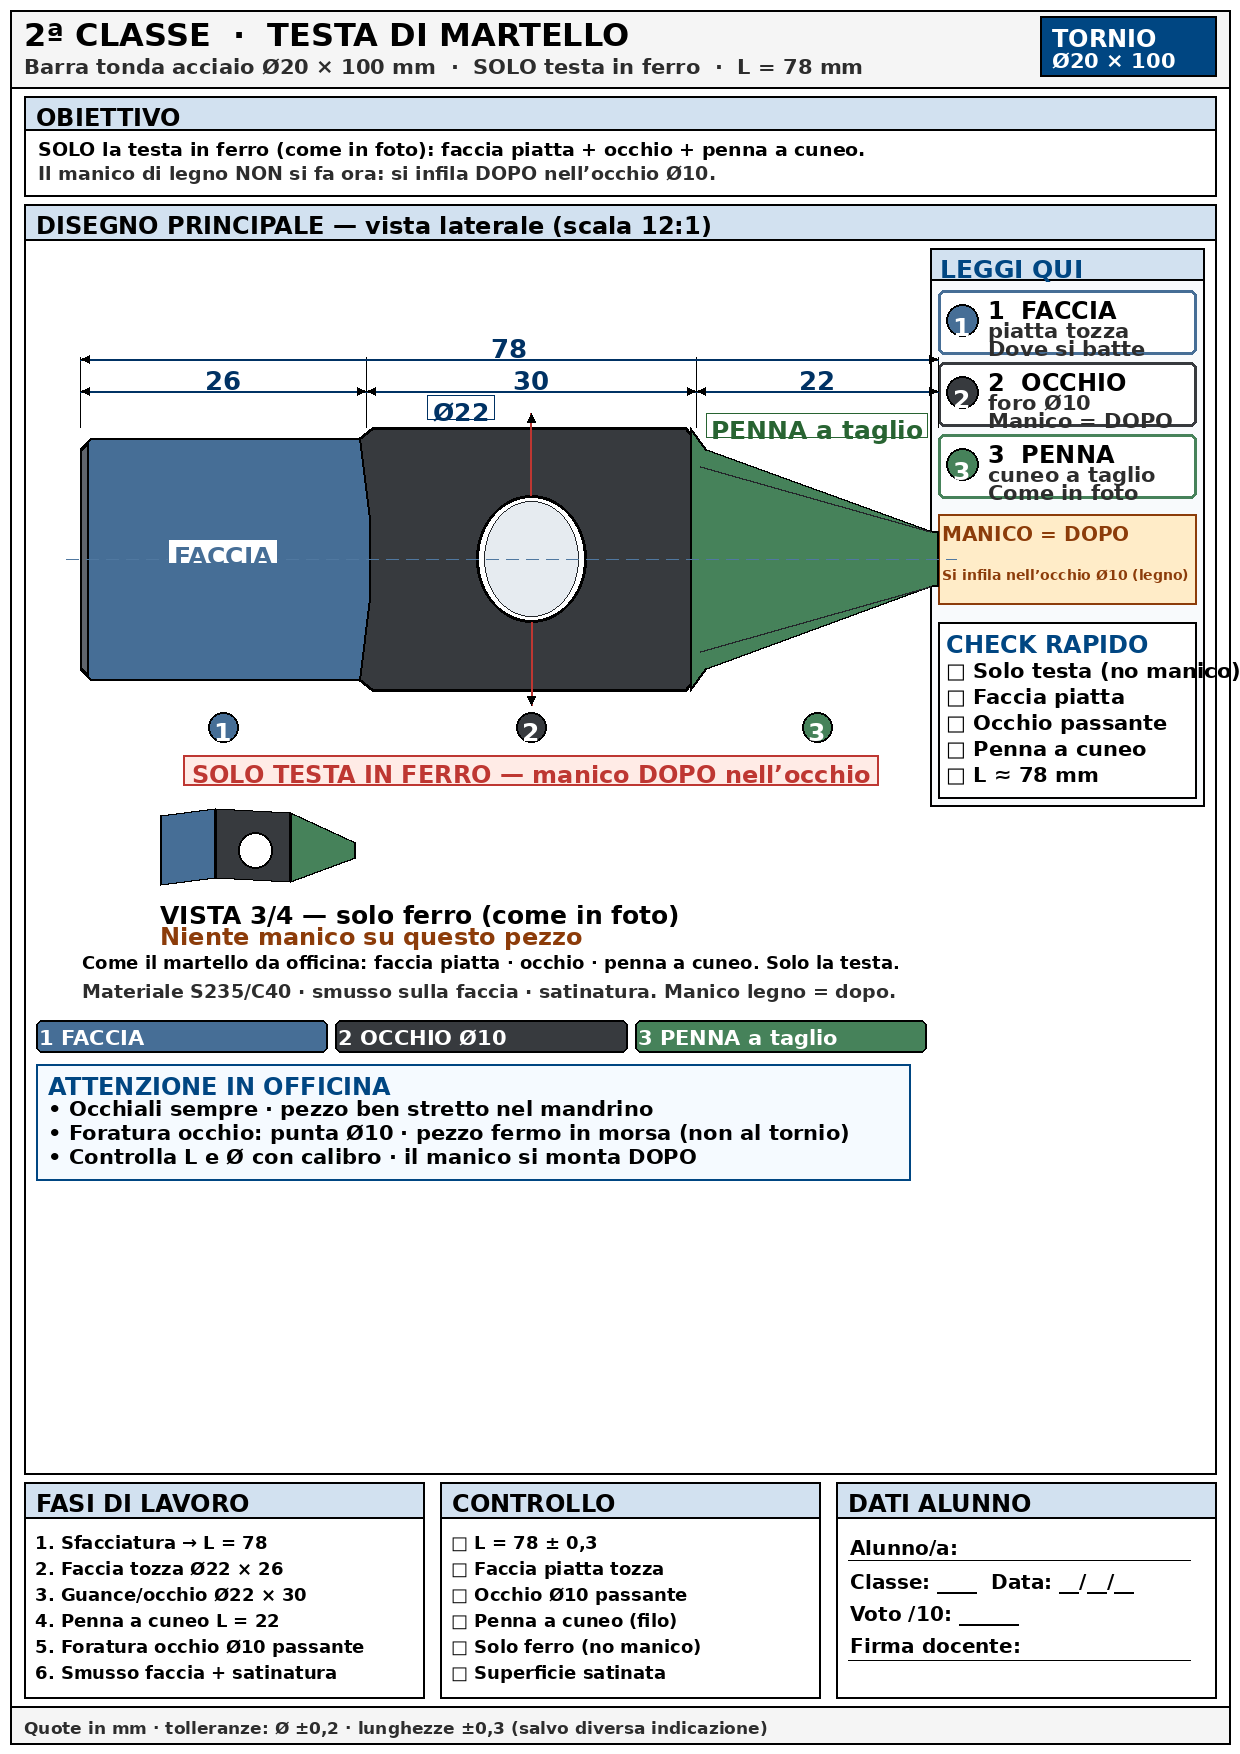
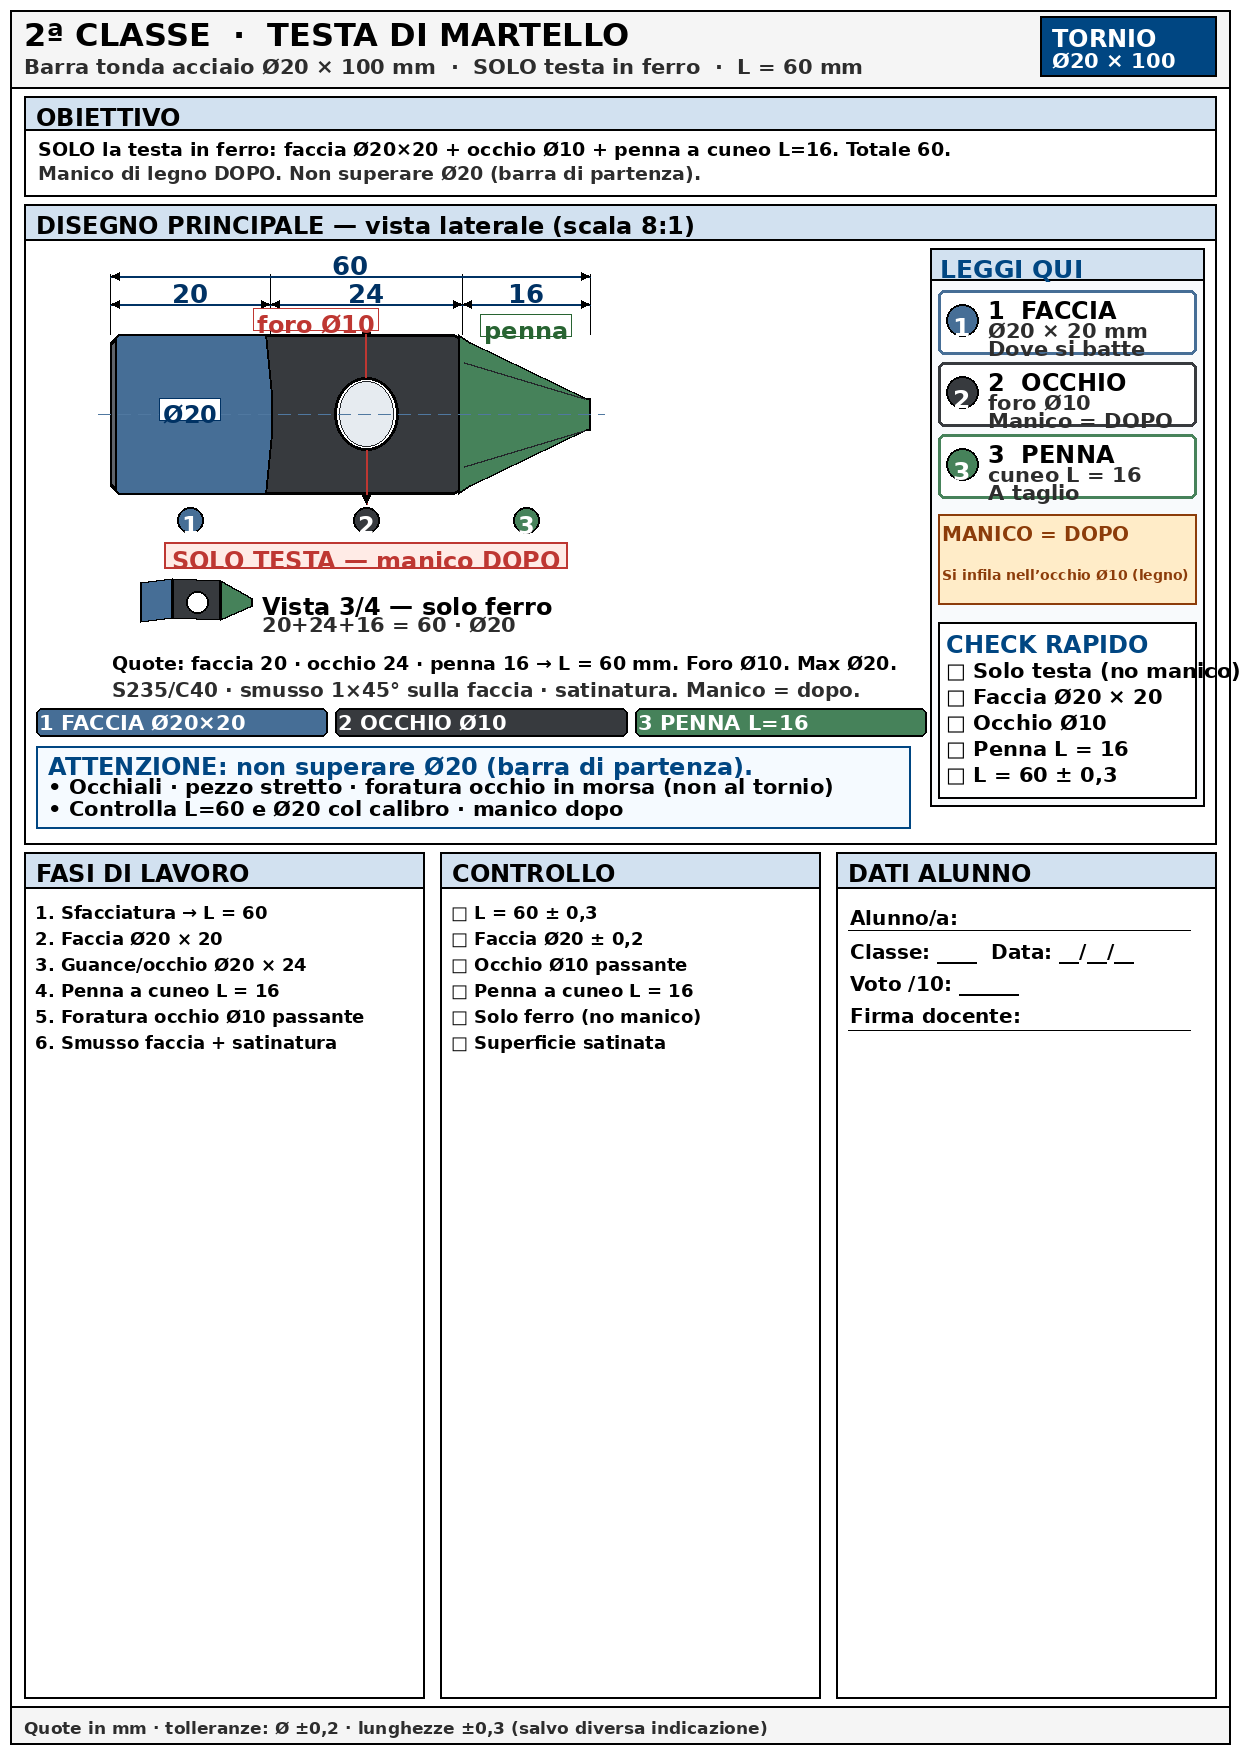
Quote giuste L=60 Ø20; disegno più piccolo (scala 8:1).
Faccia 20 + occhio 24 + penna 16; max Ø20 dalla barra.

Changed region(s): [[0.0, 0.0616, 0.9806, 0.9544], [0.7968, 0.2463, 0.9194, 0.3079], [0.7968, 0.1847, 0.9194, 0.2155]]

diff --git a/progetti-ferro-gallery/generate_ferro.py b/progetti-ferro-gallery/generate_ferro.py
@@ -370,45 +370,59 @@ def save(img, name, stampa=None):
 
 # ═══════════════════════════════════════════
 # 2ª TESTA DI MARTELLO (solo ferro — manico dopo)
-# Forma vera: FACCIA + OCCHIO + PENNA A TAGLIO (cuneo)
+# Quote da barra Ø20: L=60 = 20+24+16 · disegno scala 8:1 (non troppo grande)
 # ═══════════════════════════════════════════
 def make_2a():
     img, d = new_sheet(
         "2ª CLASSE",
         "TESTA DI MARTELLO",
-        "Barra tonda acciaio Ø20 × 100 mm  ·  SOLO testa in ferro  ·  L = 78 mm",
+        "Barra tonda acciaio Ø20 × 100 mm  ·  SOLO testa in ferro  ·  L = 60 mm",
     )
 
     draw_top = write_obiettivo(
         d,
         [
-            "SOLO la testa in ferro (come in foto): faccia piatta + occhio + penna a cuneo.",
-            ("Il manico di legno NON si fa ora: si infila DOPO nell’occhio Ø10.", GRAY),
+            "SOLO la testa in ferro: faccia Ø20×20 + occhio Ø10 + penna a cuneo L=16. Totale 60.",
+            ("Manico di legno DOPO. Non superare Ø20 (barra di partenza).", GRAY),
         ],
     )
 
     fasi = [
-        "1. Sfacciatura → L = 78",
-        "2. Faccia tozza Ø22 × 26",
-        "3. Guance/occhio Ø22 × 30",
-        "4. Penna a cuneo L = 22",
+        "1. Sfacciatura → L = 60",
+        "2. Faccia Ø20 × 20",
+        "3. Guance/occhio Ø20 × 24",
+        "4. Penna a cuneo L = 16",
         "5. Foratura occhio Ø10 passante",
         "6. Smusso faccia + satinatura",
     ]
     ctrl = [
-        "□ L = 78 ± 0,3",
-        "□ Faccia piatta tozza",
+        "□ L = 60 ± 0,3",
+        "□ Faccia Ø20 ± 0,2",
         "□ Occhio Ø10 passante",
-        "□ Penna a cuneo (filo)",
+        "□ Penna a cuneo L = 16",
         "□ Solo ferro (no manico)",
         "□ Superficie satinata",
     ]
     step = 26
     bh = 40 + max(len(fasi), len(ctrl)) * step + 20
-    bot = FOOT - bh - 8
-    draw_h = bot - draw_top - 8
-    panel(d, 24, draw_top, W - 48, draw_h, "DISEGNO PRINCIPALE — vista laterale (scala 12:1)")
+    draw_h = 580
+    bot = draw_top + draw_h + 8
+    if bot + bh > FOOT - 8:
+        bh = FOOT - bot - 8
+    else:
+        slack = FOOT - 8 - bh - bot
+        if slack > 0:
+            draw_h += min(slack, 60)
+            bot = draw_top + draw_h + 8
+            bh = FOOT - bot - 8
+    panel(d, 24, draw_top, W - 48, draw_h, "DISEGNO PRINCIPALE — vista laterale (scala 8:1)")
     panel_bottom = draw_top + draw_h
+
+    FACE_C = (70, 110, 150)
+    IRON = (55, 58, 62)
+    PEEN_C = (70, 130, 90)
+    IRON_L = (95, 100, 108)
+    IRON_D = (35, 38, 42)
 
     info_x1, info_x2 = 930, W - 36
     leggi_bottom = draw_top + 418 + 36 + 5 * 26 + 10 + 8
@@ -417,9 +431,9 @@ def make_2a():
     d.text((info_x1 + 10, draw_top + 50), "LEGGI QUI", fill=ACCENT, font=F14)
 
     blocks = [
-        ((70, 110, 150), "FACCIA", "piatta tozza", "Dove si batte"),
-        ((55, 58, 62), "OCCHIO", "foro Ø10", "Manico = DOPO"),
-        ((70, 130, 90), "PENNA", "cuneo a taglio", "Come in foto"),
+        (FACE_C, "FACCIA", "Ø20 × 20 mm", "Dove si batte"),
+        (IRON, "OCCHIO", "foro Ø10", "Manico = DOPO"),
+        (PEEN_C, "PENNA", "cuneo L = 16", "A taglio"),
     ]
     for i, (col, title, line1, line2) in enumerate(blocks):
         yy = draw_top + 86 + i * 72
@@ -437,24 +451,14 @@ def make_2a():
     text_in_box(d, info_x1 + 8, draw_top + 316, info_x2 - info_x1 - 16, 28, "MANICO = DOPO", F14, WARN, pad=4)
     text_in_box(d, info_x1 + 8, draw_top + 348, info_x2 - info_x1 - 16, 44, "Si infila nell’occhio Ø10 (legno)", F13, WARN, pad=4)
 
-    # ── SOLO LA TESTA (come foto martello da officina) — niente manico ──
-    # Forma: faccia piatta tozza · guance/occhio · penna a cuneo orizzontale
-    IRON = (55, 58, 62)       # ferro scuro come in foto
-    IRON_L = (95, 100, 108)
-    IRON_D = (35, 38, 42)
-    FACE_C = (70, 110, 150)
-    PEEN_C = (70, 130, 90)
-
-    sc = 11.0
-    mid = draw_top + int(draw_h * 0.28)
-    ox = 80
-    # quote mm: faccia 26 + occhio 30 + penna 22 = 78 ≈ scala scuola
-    Lf, Lo, Lp = 26, 30, 22
-    # altezze: faccia tozza, guance alte come la faccia (non più sottili!)
-    hf = 11 * sc   # faccia ~Ø22
-    he = 12 * sc   # guance/occhio (più alte = tozze come in foto)
-    hp0 = 10 * sc  # base penna
-    tip_h = 2.5 * sc  # filo smussato della penna (non a punta acuta)
+    # Quote corrette: 20+24+16=60 · Ø20 max · scala 8:1 (compatta)
+    sc = 8.0
+    mid = draw_top + 210
+    ox = 110
+    Lf, Lo, Lp = 20, 24, 16
+    hf = he = 10 * sc  # Ø20
+    hp0 = 9 * sc
+    tip_h = 2.0 * sc
 
     x0 = ox
     x1 = ox + Lf * sc
@@ -466,169 +470,136 @@ def make_2a():
     def P(xm, ym):
         return (xm, mid + ym)
 
-    # Silhouette CONTINUA tipo foto: blocco faccia → guance → cuneo penna
     outline = [
-        # faccia (sinistra): fronte piatta con smussi
-        P(x0, -hf + 10), P(x0, hf - 10),          # fronte faccia
-        P(x0 + 10, hf), P(x1 - 8, hf),             # sotto faccia
-        P(x1 + 6, he), P(x2 - 10, he),             # sotto guance
-        # penna: si assottiglia verso il filo ORIZZONTALE (cuneo)
-        P(x2 + 8, hp0),
-        P(end_x - 6, tip_h),
-        P(end_x, tip_h), P(end_x, -tip_h),         # filo della penna (piatto)
-        P(end_x - 6, -tip_h),
-        P(x2 + 8, -hp0),
-        P(x2 - 10, -he), P(x1 + 6, -he),           # sopra guance
-        P(x1 - 8, -hf), P(x0 + 10, -hf),
+        P(x0, -hf + 8), P(x0, hf - 8),
+        P(x0 + 8, hf), P(x1 - 6, hf),
+        P(x1 + 4, he), P(x2 - 8, he),
+        P(x2 + 6, hp0),
+        P(end_x - 4, tip_h), P(end_x, tip_h), P(end_x, -tip_h), P(end_x - 4, -tip_h),
+        P(x2 + 6, -hp0),
+        P(x2 - 8, -he), P(x1 + 4, -he),
+        P(x1 - 6, -hf), P(x0 + 8, -hf),
     ]
     d.polygon(outline, fill=IRON, outline=BLACK, width=3)
 
-    # FACCIA (zona colorata a sinistra)
     face = [
-        P(x0, -hf + 10), P(x0 + 10, -hf), P(x1 - 6, -hf),
-        P(x1 + 4, -he * 0.3), P(x1 + 4, he * 0.3),
-        P(x1 - 6, hf), P(x0 + 10, hf), P(x0, hf - 10),
+        P(x0, -hf + 8), P(x0 + 8, -hf), P(x1 - 4, -hf),
+        P(x1 + 2, -he * 0.25), P(x1 + 2, he * 0.25),
+        P(x1 - 4, hf), P(x0 + 8, hf), P(x0, hf - 8),
     ]
     d.polygon(face, fill=FACE_C, outline=BLACK, width=2)
-    # faccia battente (rettangolo quasi quadro, come in foto)
     d.polygon(
-        [P(x0, -hf + 12), P(x0 + 8, -hf + 4), P(x0 + 8, hf - 4), P(x0, hf - 12)],
+        [P(x0, -hf + 10), P(x0 + 6, -hf + 3), P(x0 + 6, hf - 3), P(x0, hf - 10)],
         fill=IRON_L, outline=BLACK, width=2,
     )
 
-    # PENNA a cuneo (destra) — filo orizzontale, NON palla
     penna = [
-        P(x2 - 6, -he),
-        P(x2 + 10, -hp0),
-        P(end_x - 6, -tip_h), P(end_x, -tip_h),
-        P(end_x, tip_h), P(end_x - 6, tip_h),
-        P(x2 + 10, hp0),
-        P(x2 - 6, he),
+        P(x2 - 4, -he), P(x2 + 8, -hp0),
+        P(end_x - 4, -tip_h), P(end_x, -tip_h),
+        P(end_x, tip_h), P(end_x - 4, tip_h),
+        P(x2 + 8, hp0), P(x2 - 4, he),
     ]
     d.polygon(penna, fill=PEEN_C, outline=BLACK, width=2)
-    # spigoli del cuneo
-    d.line([x2 + 4, mid - he * 0.7, end_x - 8, mid - tip_h], fill=IRON_D, width=2)
-    d.line([x2 + 4, mid + he * 0.7, end_x - 8, mid + tip_h], fill=IRON_D, width=2)
+    d.line([x2 + 2, mid - he * 0.65, end_x - 6, mid - tip_h], fill=IRON_D, width=2)
+    d.line([x2 + 2, mid + he * 0.65, end_x - 6, mid + tip_h], fill=IRON_D, width=2)
 
-    # OCCHIO = foro ovale passante (manico DOPO — non disegnato)
-    hole_rx, hole_ry = 5.0 * sc, 5.8 * sc
+    hole_rx, hole_ry = 4.0 * sc, 4.6 * sc
     d.ellipse([hx - hole_rx, mid - hole_ry, hx + hole_rx, mid + hole_ry], fill=WHITE, outline=BLACK, width=3)
-    # alone interno (spessore guancia)
     d.ellipse(
-        [hx - hole_rx + 8, mid - hole_ry + 6, hx + hole_rx - 8, mid + hole_ry - 6],
+        [hx - hole_rx + 5, mid - hole_ry + 4, hx + hole_rx - 5, mid + hole_ry - 4],
         fill=(230, 235, 240), outline=IRON_D, width=1,
     )
-    d.line([hx, mid - hole_ry, hx, mid - he - 14], fill=CAP_RED, width=2)
-    d.line([hx, mid + hole_ry, hx, mid + he + 14], fill=CAP_RED, width=2)
-    arrow_v(d, hx, mid - he - 14, up=True)
-    arrow_v(d, hx, mid + he + 14, up=False)
+    d.line([hx, mid - hole_ry, hx, mid - he - 10], fill=CAP_RED, width=2)
+    d.line([hx, mid + hole_ry, hx, mid + he + 10], fill=CAP_RED, width=2)
+    arrow_v(d, hx, mid - he - 10, up=True)
+    arrow_v(d, hx, mid + he + 10, up=False)
 
-    centerline(d, x0 - 14, end_x + 18, mid)
+    centerline(d, x0 - 12, end_x + 14, mid)
 
-    # Quote
     top_r = mid - he
-    q1 = top_r - 36
-    q0 = q1 - 32
+    q1 = top_r - 30
+    q0 = q1 - 28
     for xx in (x0, x1, x2, end_x):
-        ext_tick(d, xx, top_r if xx <= x1 else mid - he, q0 - 2)
-    dim_h(d, x0, x1, q1, "26")
-    dim_h(d, x1, x2, q1, "30")
-    dim_h(d, x2, end_x, q1, "22")
-    dim_h(d, x0, end_x, q0, "78")
+        ext_tick(d, xx, top_r, q0 - 2)
+    dim_h(d, x0, x1, q1, "20")
+    dim_h(d, x1, x2, q1, "24")
+    dim_h(d, x2, end_x, q1, "16")
+    dim_h(d, x0, end_x, q0, "60")
 
-    # etichette zone
     def lab_box(cx, yy, text, col):
-        tw = d.textlength(text, font=F14)
-        d.rectangle([cx - tw / 2 - 5, yy - 2, cx + tw / 2 + 5, yy + 22], fill=WHITE, outline=col, width=1)
-        d.text((cx - tw / 2, yy), text, fill=col, font=F14)
+        tw = d.textlength(text, font=F13)
+        d.rectangle([cx - tw / 2 - 4, yy - 2, cx + tw / 2 + 4, yy + 20], fill=WHITE, outline=col, width=1)
+        d.text((cx - tw / 2, yy), text, fill=col, font=F13)
 
-    lab_box((x0 + x1) / 2, mid - 18, "FACCIA", FACE_C)
-    lab_box(hx - 70, mid - he - 30, "Ø22", DIM_COL)
-    lab_box(peen_mid, mid - hp0 - 34, "PENNA a taglio", (40, 100, 50))
+    lab_box((x0 + x1) / 2, mid - 14, "Ø20", DIM_COL)
+    lab_box(hx - 50, mid - he - 24, "foro Ø10", CAP_RED)
+    lab_box(peen_mid, mid - hp0 - 26, "penna", (40, 100, 50))
 
     def badge(cx, cy, n, bg):
-        d.ellipse([cx - 15, cy - 15, cx + 15, cy + 15], fill=bg, outline=BLACK, width=2)
-        tw = d.textlength(n, font=F14)
-        d.text((cx - tw / 2, cy - 10), n, fill=WHITE, font=F14)
+        d.ellipse([cx - 13, cy - 13, cx + 13, cy + 13], fill=bg, outline=BLACK, width=2)
+        tw = d.textlength(n, font=F13)
+        d.text((cx - tw / 2, cy - 9), n, fill=WHITE, font=F13)
 
-    badge_y = mid + he + 36
+    badge_y = mid + he + 26
     badge((x0 + x1) / 2, badge_y, "1", FACE_C)
     badge(hx, badge_y, "2", IRON)
     badge(peen_mid, badge_y, "3", PEEN_C)
 
-    ftxt = "SOLO TESTA IN FERRO — manico DOPO nell’occhio"
-    ftw = d.textlength(ftxt, font=F13) + 16
-    fy = badge_y + 28
-    d.rectangle([hx - ftw / 2, fy, hx + ftw / 2, fy + 30], fill=(255, 235, 230), outline=CAP_RED, width=2)
-    d.text((hx - ftw / 2 + 8, fy + 5), ftxt, fill=CAP_RED, font=F13)
+    ftxt = "SOLO TESTA — manico DOPO"
+    ftw = d.textlength(ftxt, font=F13) + 14
+    fy = badge_y + 22
+    d.rectangle([hx - ftw / 2, fy, hx + ftw / 2, fy + 26], fill=(255, 235, 230), outline=CAP_RED, width=2)
+    d.text((hx - ftw / 2 + 7, fy + 4), ftxt, fill=CAP_RED, font=F13)
 
-    # Vista 3/4 stilizzata (come la foto, senza manico)
-    vx, vy = ox + 80, fy + 95
-    # testa in prospettiva semplice: faccia + corpo + penna
-    d.polygon(
-        [
-            (vx, vy - 35), (vx + 55, vy - 42), (vx + 55, vy + 28), (vx, vy + 35),
-        ],
-        fill=FACE_C, outline=BLACK, width=2,
-    )  # faccia
-    d.polygon(
-        [
-            (vx + 55, vy - 42), (vx + 130, vy - 38), (vx + 130, vy + 32), (vx + 55, vy + 28),
-        ],
-        fill=IRON, outline=BLACK, width=2,
-    )  # corpo
-    d.ellipse([vx + 78, vy - 18, vx + 112, vy + 18], fill=WHITE, outline=BLACK, width=2)  # occhio
-    d.polygon(
-        [
-            (vx + 130, vy - 38), (vx + 195, vy - 8), (vx + 195, vy + 8), (vx + 130, vy + 32),
-        ],
-        fill=PEEN_C, outline=BLACK, width=2,
-    )  # penna cuneo
-    d.text((vx, vy + 50), "VISTA 3/4 — solo ferro (come in foto)", fill=BLACK, font=F14)
-    d.text((vx, vy + 72), "Niente manico su questo pezzo", fill=WARN, font=F13)
+    vx, vy = ox + 30, fy + 60
+    d.polygon([(vx, vy - 20), (vx + 32, vy - 24), (vx + 32, vy + 16), (vx, vy + 20)], fill=FACE_C, outline=BLACK, width=2)
+    d.polygon([(vx + 32, vy - 24), (vx + 80, vy - 22), (vx + 80, vy + 18), (vx + 32, vy + 16)], fill=IRON, outline=BLACK, width=2)
+    d.ellipse([vx + 46, vy - 11, vx + 68, vy + 11], fill=WHITE, outline=BLACK, width=2)
+    d.polygon([(vx + 80, vy - 22), (vx + 112, vy - 4), (vx + 112, vy + 4), (vx + 80, vy + 18)], fill=PEEN_C, outline=BLACK, width=2)
+    d.text((vx + 122, vy - 10), "Vista 3/4 — solo ferro", fill=BLACK, font=F13)
+    d.text((vx + 122, vy + 10), "20+24+16 = 60 · Ø20", fill=GRAY, font=F12)
 
-    note_y = vy + 100
+    note_y = vy + 48
     text_in_box(
-        d, ox, note_y, info_x1 - ox - 24, 26,
-        "Come il martello da officina: faccia piatta · occhio · penna a cuneo. Solo la testa.",
-        F14, BLACK, pad=2,
+        d, ox, note_y, info_x1 - ox - 24, 24,
+        "Quote: faccia 20 · occhio 24 · penna 16 → L = 60 mm. Foro Ø10. Max Ø20.",
+        F13, BLACK, pad=2,
     )
     text_in_box(
-        d, ox, note_y + 28, info_x1 - ox - 24, 26,
-        "Materiale S235/C40 · smusso sulla faccia · satinatura. Manico legno = dopo.",
-        F13, GRAY, pad=2,
+        d, ox, note_y + 26, info_x1 - ox - 24, 24,
+        "S235/C40 · smusso 1×45° sulla faccia · satinatura. Manico = dopo.",
+        F12, GRAY, pad=2,
     )
 
     legend = [
-        ("1 FACCIA", FACE_C, WHITE),
+        ("1 FACCIA Ø20×20", FACE_C, WHITE),
         ("2 OCCHIO Ø10", IRON, WHITE),
-        ("3 PENNA a taglio", PEEN_C, WHITE),
+        ("3 PENNA L=16", PEEN_C, WHITE),
     ]
-    tag_y = note_y + 70
+    tag_y = note_y + 58
     gap = 8
     chip_w = (info_x1 - 40 - 2 * gap) / 3
     for i, (lab, fill, tcol) in enumerate(legend):
         xa = 36 + i * (chip_w + gap)
-        d.rounded_rectangle([xa, tag_y, xa + chip_w, tag_y + 32], radius=6, fill=fill, outline=BLACK, width=2)
-        text_in_box(d, xa, tag_y, chip_w, 32, lab, F12, tcol, pad=3)
+        d.rounded_rectangle([xa, tag_y, xa + chip_w, tag_y + 28], radius=6, fill=fill, outline=BLACK, width=2)
+        text_in_box(d, xa, tag_y, chip_w, 28, lab, F12, tcol, pad=3)
 
-    tip_y = tag_y + 44
+    tip_y = tag_y + 38
     tips = [
-        "ATTENZIONE IN OFFICINA",
-        "• Occhiali sempre · pezzo ben stretto nel mandrino",
-        "• Foratura occhio: punta Ø10 · pezzo fermo in morsa (non al tornio)",
-        "• Controlla L e Ø con calibro · il manico si monta DOPO",
+        "ATTENZIONE: non superare Ø20 (barra di partenza).",
+        "• Occhiali · pezzo stretto · foratura occhio in morsa (non al tornio)",
+        "• Controlla L=60 e Ø20 col calibro · manico dopo",
     ]
-    tip_step = 24
-    tip_h_box = 12 + len(tips) * tip_step + 8
+    tip_step = 22
+    tip_h_box = 10 + len(tips) * tip_step + 6
     d.rectangle([36, tip_y, info_x1 - 20, tip_y + tip_h_box], fill=(245, 250, 255), outline=ACCENT, width=2)
     for i, ln in enumerate(tips):
         fill = ACCENT if i == 0 else BLACK
         f = F13 if i == 0 else F12
-        d.text((48, tip_y + 8 + i * tip_step), ln, fill=fill, font=f)
+        d.text((48, tip_y + 6 + i * tip_step), ln, fill=fill, font=f)
 
     right_y = draw_top + 418
-    checks = ["□ Solo testa (no manico)", "□ Faccia piatta", "□ Occhio passante", "□ Penna a cuneo", "□ L ≈ 78 mm"]
+    checks = ["□ Solo testa (no manico)", "□ Faccia Ø20 × 20", "□ Occhio Ø10", "□ Penna L = 16", "□ L = 60 ± 0,3"]
     rh = 36 + len(checks) * 26 + 10
     d.rectangle([info_x1 + 8, right_y, info_x2 - 8, right_y + rh], fill=WHITE, outline=BLACK, width=2)
     d.text((info_x1 + 16, right_y + 8), "CHECK RAPIDO", fill=ACCENT, font=F13)
